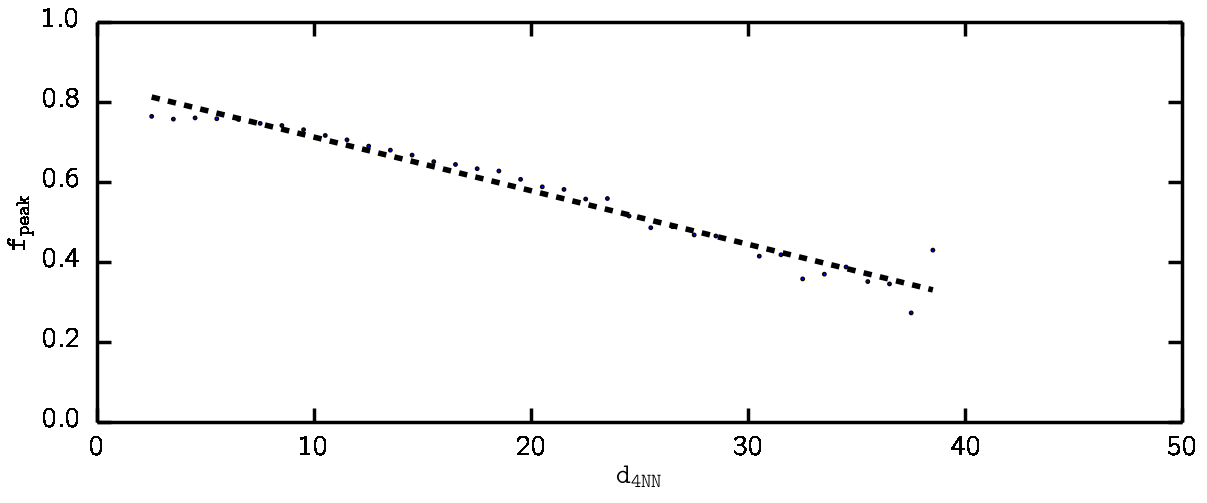
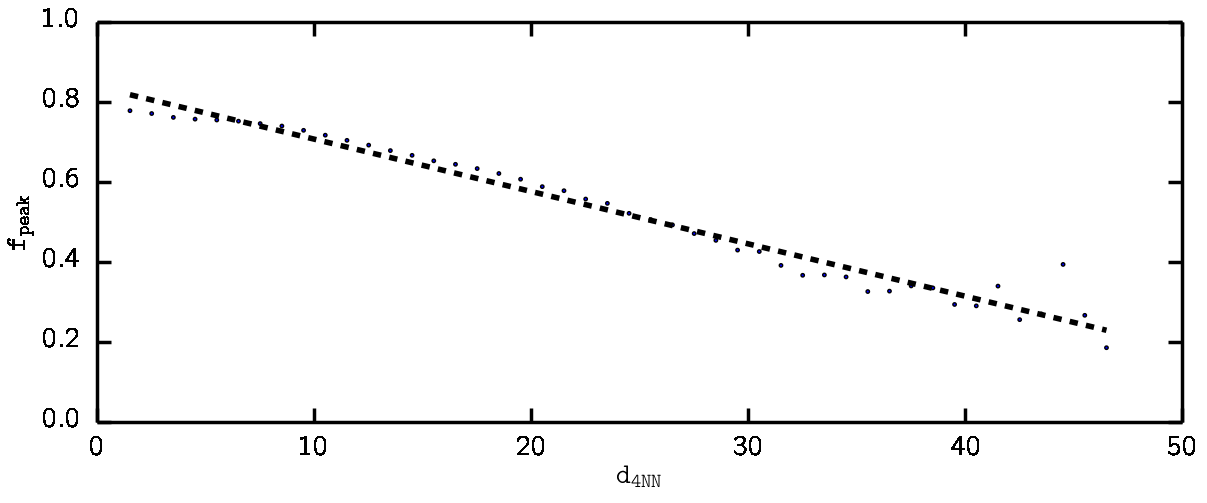
960grid PATCHY mocks generated for Sergio

diff --git a/fibcol_dlos.py b/fibcol_dlos.py
@@ -804,7 +804,7 @@ def dlos_env(n=3, **cat_corr):
     # Read in dLOS data 
     if catalog['name'].lower() in ('qpm', 'nseries'):    # QPM or Nseries
 
-        for i_mock in range(1, 10):         # combine dLOS values of n mocks 
+        for i_mock in range(1, 85):         # combine dLOS values of n mocks 
 
             # read dLOS for each mock  
             i_catalog = catalog.copy() 
@@ -2294,16 +2294,16 @@ if __name__=="__main__":
     pool = mp.Pool(processes=5)
     mapfn = pool.map
     
-    #arglist = [ [i, cat_corr] for i in [1,2,3,4,5,10] ]
-    #
-    #mapfn( dlos_env_multiprocess, [arg for arg in arglist])
+    arglist = [ [i, cat_corr] for i in [1,2,3,4,5,10] ]
+    
+    mapfn( dlos_env_multiprocess, [arg for arg in arglist])
 
     #photoz_dlos_nseries(10, **cat_corr)
     #fc_data.galaxy_data('data', clobber=True, **cat_corr) 
     #build_dlos(**cat_corr)
 
-    arglist = [ {'catalog': {'name': 'nseries', 'n_mock': i_mock}, 'correction': {'name': 'upweight'}} for i_mock in range(9,85)]
-    mapfn(build_dlos_wrapper, [arg for arg in arglist])
+    #arglist = [ {'catalog': {'name': 'nseries', 'n_mock': i_mock}, 'correction': {'name': 'upweight'}} for i_mock in range(9,85)]
+    #mapfn(build_dlos_wrapper, [arg for arg in arglist])
 
     pool.close()
     pool.terminate()

diff --git a/fibercollisions.py b/fibercollisions.py
@@ -944,6 +944,8 @@ def build_pk_multiprocessing(catalog, n_mocks, Nthreads=5, **kwargs):
             corrs = [{'name': 'true'}, {'name': 'upweight'}, {'name': 'peakshot'} ]
         elif catalog == 'cmass': 
             corrs = [{'name': 'upweight'}, {'name': 'peakshot'}]
+        elif catalog == 'patchy': 
+            corrs = [{'name': 'upweight'}, {'name': 'true'}]
         elif 'bigmd' in catalog: 
             corrs = [{'name': 'true'}, {'name': 'upweight'}] 
     if isinstance(corrs, dict): 
@@ -1028,10 +1030,11 @@ if __name__=='__main__':
         fc_data.galaxy_data('data', clobber=True, **cat_corr) 
     '''
     #fc_data.build_photoz_peakcorrected_fibcol(doublecheck=False, **cat_corr)
-    build_pk_multiprocessing('nseries', 20, 
-            corrections=[{'name': 'scratch_peakknown'}], 
-            grid=360, quad=True)
+    build_pk_multiprocessing('patchy', 100, Nthreads=8,
+            corrections=[{'name': 'true'}, {'name': 'upweight'}], 
+            grid=960, quad=False)
             #corrections=[{'name': 'true'}, {'name': 'upweight'}, {'name': 'peakshot'}, {'name': 'photozpeakshot'}], 
+
     #build_pk('bigmd3', 1, grid=960, quad=False) 
     #build_pk('ldgdownnz', 10, clobber=True, quad=False) 
     #build_pk('lasdamasgeo', 10, clobber=False, grid=360, quad=False) 

diff --git a/plot_fibcol.py b/plot_fibcol.py
@@ -1247,12 +1247,16 @@ if __name__=="__main__":
                 'sigma': '4.0', 'fpeak': '0.69', 'fit':'gauss'}} 
             ]
 
-    n_mock_list = 20
-    plot_pk_fibcol_comp( catcorr_methods, n_mock_list, \
-            quad=True, Ngrid=360, type='regular', 
+    catcorr_methods = [
+            {'catalog': {'name': 'patchy'}, 'correction': {'name': 'true'}}, 
+            {'catalog': {'name': 'patchy'}, 'correction': {'name': 'upweight'}}
+            ]
+    n_mock_list = 100
+    plot_pk_fibcol_comp(catcorr_methods, n_mock_list, \
+            quad=False, Ngrid=960, type='regular', 
             xrange=[0.01, 1.0], yrange=[10**2, 3*10**5])
     plot_pk_fibcol_comp(catcorr_methods, n_mock_list, 
-            quad=True, Ngrid=360, type='ratio', 
+            quad=False, Ngrid=960, type='ratio', 
             xrange=[0.01, 1.0], yrange=[0.0, 2.0])
     #plot_pk_fibcol_comp(catcorr_methods, n_mock_list, 
     #        quad=True, Ngrid=960, type='kPk', 
